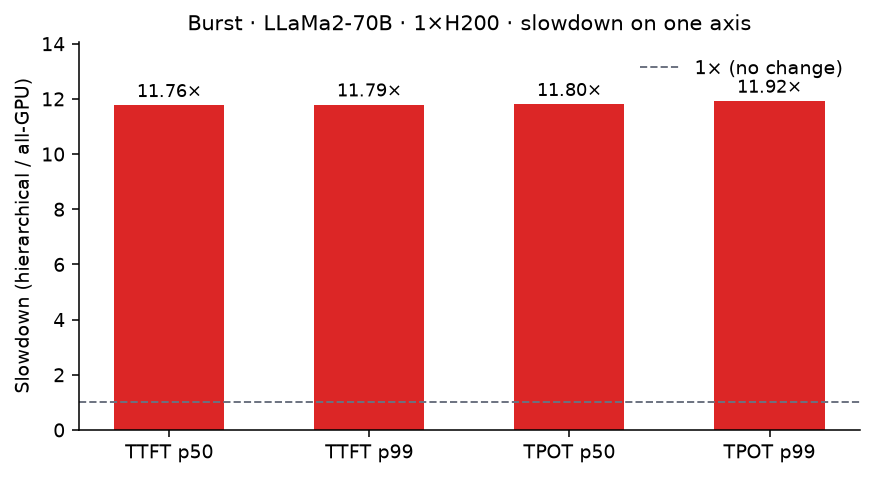
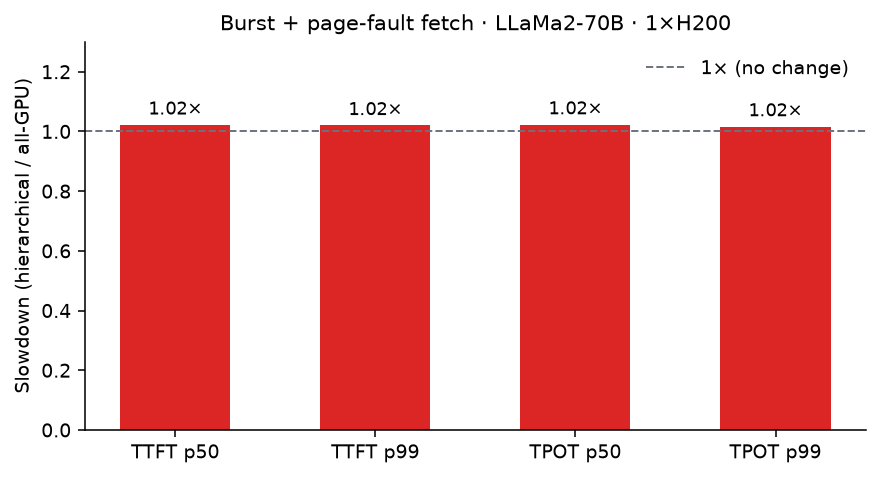
feat: enhance hierarchical KV working-set fetch with page-fault support
- Updated kv_working_set_test_report to reflect performance metrics with page-fault fetch.
- Modified fetch.py to implement page-fault logic, charging only for tokens not yet faulted in.
- Adjusted offload_sim.md to include page-fault fetch in latency calculations.
- Updated tests to validate new fetch behavior and ensure correct latency calculations.
- Revised JSON report files to capture updated simulation results and latencies.

缺页才能提高 decode 从 storage 读 KV 的效率：冷数据只在第一次 miss 时读入，之后只为滑出 GPU 窗口的新 token 付 I/O，而不是每个 decode 步把 DRAM/SSD 整段再 DMA 一遍。

已经改完并重跑 burst。请求上用 kv_ws_fetched_end 水位；存储区是 [0, gpu_start)。

diff --git a/tests/test_kv_working_set.py b/tests/test_kv_working_set.py
@@ -43,6 +43,7 @@ class _LatencyRequest:
         self.prefill_len = prefill_len
         self.generation_idx = generation_idx
         self.is_prefill = is_prefill
+        self.kv_ws_fetched_end = 0
         self.prefill_compute_len = prefill_len
         self.needs_recompute = needs_recompute
         self.recompute_tokens = recompute_tokens
@@ -156,19 +157,24 @@ class WorkingSetPlacementTest(unittest.TestCase):
         self.assertEqual(cost.ssd_tokens, 0)
         self.assertEqual(cost.latency, 0.0)
 
-    def test_fetch_matches_hand_calculated_media_delay(self):
+    def test_second_decode_only_faults_new_storage_tokens(self):
         config = _hier_config()
-        cost = fetch_cost(100, config, SIZE_PER_TOKEN)
-        expected = media_read_latency(50 * SIZE_PER_TOKEN, config.dram)
-        expected += media_read_latency(20 * SIZE_PER_TOKEN, config.ssd)
-        self.assertAlmostEqual(cost.latency, expected)
-        self.assertAlmostEqual(
-            expected,
-            100.0 / 1e6
-            + (50 * SIZE_PER_TOKEN) / _GB / 50.0
-            + 100.0 / 1e6
-            + (20 * SIZE_PER_TOKEN) / _GB / 7.0,
-        )
+        first = fetch_cost(100, config, SIZE_PER_TOKEN, fetched_end=0)
+        self.assertEqual((first.dram_tokens, first.ssd_tokens), (50, 20))
+        self.assertEqual(first.next_fetched_end, 70)
+        second = fetch_cost(101, config, SIZE_PER_TOKEN, fetched_end=first.next_fetched_end)
+        self.assertEqual(second.ssd_tokens, 0)
+        self.assertEqual(second.dram_tokens, 1)
+        self.assertEqual(second.next_fetched_end, 71)
+        self.assertLess(second.latency, first.latency)
+
+    def test_repeat_fetch_at_same_s_is_zero(self):
+        config = _hier_config()
+        first = fetch_cost(100, config, SIZE_PER_TOKEN)
+        again = fetch_cost(100, config, SIZE_PER_TOKEN, fetched_end=first.next_fetched_end)
+        self.assertEqual(again.latency, 0.0)
+        self.assertEqual(again.dram_tokens, 0)
+        self.assertEqual(again.ssd_tokens, 0)
 
 
 class WorkingSetLatencyBackendTest(unittest.TestCase):
@@ -296,6 +302,39 @@ class WorkingSetLatencyBackendTest(unittest.TestCase):
         observed = backend.estimate_step_latency([request])
         expected_fetch = fetch_cost(100, config, SIZE_PER_TOKEN).latency
         self.assertAlmostEqual(observed, 0.05 + expected_fetch)
+
+    def test_second_backend_step_only_faults_window_slide(self):
+        request = _decode_request(prefill_len=99, generation_idx=1)
+        config = _hier_config()
+        hierarchical = RooflineLatencyBackend(
+            _RooflineStub(),
+            "model",
+            "hardware",
+            ParallelConfig(),
+            working_set_config=config,
+            size_per_token=SIZE_PER_TOKEN,
+        )
+        disabled = RooflineLatencyBackend(
+            _RooflineStub(),
+            "model",
+            "hardware",
+            ParallelConfig(),
+        )
+        hierarchical.estimate_step_latency([request])
+        dram_after_first = hierarchical.kv_ws_stats.kv_ws_dram_read_tokens
+        request.generation_idx = 2
+        baseline = disabled.estimate_step_latency(
+            [_decode_request(prefill_len=99, generation_idx=2)]
+        )
+        observed = hierarchical.estimate_step_latency([request])
+        slide = fetch_cost(101, config, SIZE_PER_TOKEN, fetched_end=70)
+        self.assertEqual(slide.dram_tokens, 1)
+        self.assertEqual(slide.ssd_tokens, 0)
+        self.assertAlmostEqual(observed, baseline + slide.latency)
+        self.assertEqual(
+            hierarchical.kv_ws_stats.kv_ws_dram_read_tokens,
+            dram_after_first + 1,
+        )
 
     def test_decode_scale_is_not_applied_to_fetch(self):
         request = _decode_request(prefill_len=99, generation_idx=1)

diff --git a/TokenSim/kv_working_set/fetch.py b/TokenSim/kv_working_set/fetch.py
@@ -17,6 +17,7 @@ class FetchCost:
     dram_bytes: int
     ssd_bytes: int
     split: ContextSplit
+    next_fetched_end: int = 0
 
 
 def media_read_latency(bytes_: int, media: MediaReadConfig | None) -> float:
@@ -25,26 +26,42 @@ def media_read_latency(bytes_: int, media: MediaReadConfig | None) -> float:
     return media.read_latency_us / 1e6 + bytes_ / _GB / max(_EPS, media.read_bw_gbps)
 
 
+def _overlap(start_a: int, end_a: int, start_b: int, end_b: int) -> int:
+    return max(0, min(end_a, end_b) - max(start_a, start_b))
+
+
 def fetch_cost(
     context_len: int,
     config: WorkingSetConfig,
     size_per_token: int,
+    fetched_end: int = 0,
 ) -> FetchCost:
+    """Charge DRAM/SSD reads only for tokens not yet faulted in.
+
+    Storage covers ``[0, gpu_start)``. Tokens in ``[0, fetched_end)`` already
+    paid I/O. Later decode steps only pay for the window sliding into storage.
+    """
     split = split_context(context_len, config)
     size_per_token = max(0, int(size_per_token))
-    dram_bytes = split.dram * size_per_token
-    ssd_bytes = split.ssd * size_per_token
+    fetched_end = max(0, int(fetched_end))
+    miss_start = min(fetched_end, split.gpu_start)
+    miss_end = split.gpu_start
+    dram_tokens = _overlap(miss_start, miss_end, split.dram_start, split.gpu_start)
+    ssd_tokens = _overlap(miss_start, miss_end, split.ssd_start, split.dram_start)
+    dram_bytes = dram_tokens * size_per_token
+    ssd_bytes = ssd_tokens * size_per_token
     latency = media_read_latency(dram_bytes, config.dram) + media_read_latency(
         ssd_bytes,
         config.ssd,
     )
     return FetchCost(
         latency=latency,
-        dram_tokens=split.dram,
-        ssd_tokens=split.ssd,
+        dram_tokens=dram_tokens,
+        ssd_tokens=ssd_tokens,
         dram_bytes=dram_bytes,
         ssd_bytes=ssd_bytes,
         split=split,
+        next_fetched_end=max(fetched_end, split.gpu_start),
     )
 
 
@@ -53,7 +70,7 @@ def decode_fetch_for_requests(
     config: WorkingSetConfig,
     size_per_token: int,
 ) -> FetchCost:
-    """Sum per-request decode fetch costs for the scheduled batch."""
+    """Sum per-request decode page-fault costs and advance each watermark."""
     total = FetchCost(
         latency=0.0,
         dram_tokens=0,
@@ -70,17 +87,21 @@ def decode_fetch_for_requests(
     dram_bytes = 0
     ssd_bytes = 0
     last_split = total.split
+    last_fetched = 0
     for req in requests:
         if getattr(req, "is_prefill", False) or getattr(req, "needs_recompute", False):
             continue
         context_len = getattr(req, "prefill_len", 0) + getattr(req, "generation_idx", 0)
-        cost = fetch_cost(context_len, config, size_per_token)
+        fetched_end = int(getattr(req, "kv_ws_fetched_end", 0) or 0)
+        cost = fetch_cost(context_len, config, size_per_token, fetched_end)
+        setattr(req, "kv_ws_fetched_end", cost.next_fetched_end)
         latency += cost.latency
         dram_tokens += cost.dram_tokens
         ssd_tokens += cost.ssd_tokens
         dram_bytes += cost.dram_bytes
         ssd_bytes += cost.ssd_bytes
         last_split = cost.split
+        last_fetched = cost.next_fetched_end
     return FetchCost(
         latency=latency,
         dram_tokens=dram_tokens,
@@ -88,4 +109,5 @@ def decode_fetch_for_requests(
         dram_bytes=dram_bytes,
         ssd_bytes=ssd_bytes,
         split=last_split,
+        next_fetched_end=last_fetched,
     )

diff --git a/TokenSim/llm/llm_request.py b/TokenSim/llm/llm_request.py
@@ -234,6 +234,7 @@ class Request:
     decode_service_time_sum: float = field(default=0.0, repr=False)
     prefill_batch_size: float = field(default=0.0, repr=False)
     decode_batch_sum: float = field(default=0.0, repr=False)
+    kv_ws_fetched_end: int = field(default=0, repr=False)
     tqdm_submit_func = None
 
     def __post_init__(self):

diff --git a/kv_working_set_test_report.md b/kv_working_set_test_report.md
@@ -4,9 +4,9 @@ Date / 日期: 2026-09-04
 Simulator / 模拟器: TokenSim (roofline backend, Python 3.11)  
 Primary arrival / 主测试到达: `--distribution burst`
 
-This report documents the 70B / H200 comparison of **all-GPU decode** vs **hierarchical KV working-set fetch** (GPU 30% / DRAM 50% / SSD 20%). Burst is the official case so `--qps` does not set inter-arrival time.
+This report documents the 70B / H200 comparison of **all-GPU decode** vs **hierarchical KV working-set fetch** (GPU 30% / DRAM 50% / SSD 20%). Burst is the official case so `--qps` does not set inter-arrival time. Fetch is **page-fault**: the first decode faults the cold tail once; later steps only pay for tokens that newly slide off GPU.
 
-本报告记录 LLaMa2-70B + 1×H200 上 **全 GPU decode** 与 **分层 KV 工作集读取**（GPU 30% / DRAM 50% / SSD 20%）的对照。正式用例使用 **burst**：所有请求在仿真时刻 0 同时到达，`--qps` 不再控制间隔。
+本报告记录 LLaMa2-70B + 1×H200 上 **全 GPU decode** 与 **分层 KV 工作集读取**（GPU 30% / DRAM 50% / SSD 20%）的对照。正式用例使用 **burst**。Fetch 为 **缺页**：第一次 decode 把冷尾读入一次，之后只为新滑出 GPU 的 token 付 I/O。
 
 ---
 
@@ -31,9 +31,9 @@ Working-set media (`data/kv_working_set/hier_30_50_20.json`):
 | DRAM | 0.5 | **2 µs** (PCIe DMA) | **50 GB/s** | Yes |
 | SSD | 0.2 (oldest) | **100 µs** (NVMe) | **7 GB/s** | Yes |
 
-v1 decode step: `T_step = T_roofline + T(dram) + T(ssd)`. Prefill / recompute do **not** add fetch. GPU occupancy is **not** reduced by `gpu_frac`.
+v1 decode step: `T_step = T_roofline + T(dram_miss) + T(ssd_miss)` (page-fault, not a full cold-set read every token). Prefill / recompute do **not** add fetch. GPU occupancy is **not** reduced by `gpu_frac`.
 
-v1 decode：`T_step = T_roofline + T(dram) + T(ssd)`。Prefill / 重算不加 fetch。`gpu_frac` **不减少** GPU KV 占用。
+v1 decode：缺页读取，不是每步把冷 KV 全量再读。Prefill / 重算不加 fetch。`gpu_frac` **不减少** GPU KV 占用。
 
 ---
 
@@ -96,9 +96,9 @@ python3.11 ./benchmark.py --batching paged-attn --qps 10 \
 
 ### Case 2 (official) — burst, hierarchical 30/50/20 / 正式用例：burst 分层
 
-Same arrival and cluster. Adds blocking DRAM/SSD fetch on every decode step.
+Same arrival and cluster. Page-fault DRAM/SSD reads on decode (cold tail once, then window slide).
 
-到达与集群相同。每个 decode 步叠加 DRAM/SSD 阻塞读取。
+到达与集群相同。Decode 缺页读 DRAM/SSD（冷尾一次，之后只跟窗口滑动）。
 
 ```bash
 python3.11 ./benchmark.py --batching paged-attn --qps 10 \
@@ -148,73 +148,80 @@ Both official arms processed **102,452** tokens (51,226 prefill + 51,226 decode)
 
 ---
 
-## 5. Official results (burst) / 正式结果（burst）
+## 5. Official results (burst, page-fault fetch) / 正式结果（burst + 缺页）
 
 | Metric | Case 1 all GPU | Case 2 hierarchical | Ratio (hier / GPU) |
 | --- | --- | --- | --- |
-| TTFT p50 | 141.88 s | 1669.15 s | **11.8×** |
-| TTFT p99 | 316.77 s | 3733.99 s | **11.8×** |
+| TTFT p50 | 141.88 s | 145.01 s | **1.02×** |
+| TTFT p99 | 316.77 s | 323.17 s | **1.02×** |
 | TTFT min | **0.871 s** | **0.871 s** | **1.0×** |
-| TTFT avg | 146.92 s | 1728.13 s | 11.8× |
-| TPOT p50 | **69.0 ms** | **814.9 ms** | **11.8×** |
-| TPOT p99 | 131.3 ms | 1565.6 ms | 11.9× |
-| TPOT avg | 82.0 ms | 965.4 ms | 11.8× |
-| Per-request 1/TPOT p50 | 14.5 tok/s | 1.23 tok/s | 1/11.8 |
-| System token/s | **292.0** | **25.2** | **1/11.6** |
-| Stdout prefill token/s | 146.0 | 12.6 | 1/11.6 |
-| Achieved r/s | 0.285 | 0.025 | 1/11.6 |
-| Simulated duration | 350.91 s | 4068.56 s | 11.6× |
-| Preemptions / recomputes | 73 / 73 | 73 / 73 | same order |
-| Σ `kv_ws_fetch_latency` | 0 | 3717.65 s | decode only |
+| TTFT avg | 146.92 s | 150.03 s | 1.02× |
+| TPOT p50 | **69.0 ms** | **70.6 ms** | **1.02×** |
+| TPOT p99 | 131.3 ms | 133.5 ms | 1.02× |
+| TPOT avg | 82.0 ms | 83.6 ms | 1.02× |
+| Per-request 1/TPOT p50 | 14.48 tok/s | 14.16 tok/s | 1/1.02 |
+| System token/s | **292.0** | **286.5** | **1/1.02** |
+| Stdout prefill token/s | 146.0 | 143.3 | 1/1.02 |
+| Achieved r/s | 0.285 | 0.280 | 1/1.02 |
+| Simulated duration | 350.91 s | 357.59 s | 1.02× |
+| Preemptions / recomputes | 73 / 73 | 73 / 73 | same |
+| Σ `kv_ws_fetch_latency` | 0 | **6.68 s** | first-touch + slide |
 
-Min TTFT is identical: the first packed prefill is the same compute. p50/p99 TTFT grow because the single hybrid worker is busy; hierarchical decode steps include `T_fetch`, so the queue drains ~12× slower. **TPOT is the direct working-set cost.** System token/s falls by the duration ratio because token counts match.
+With page-fault fetch, hierarchical decode is within **~2%** of all-GPU on TTFT, TPOT, and token/s. The remaining gap is the one-time cold-tail fault plus ~1 token/step as the window slides (Σ fetch 6.68 s vs 3718 s when every step re-read the whole cold set).
 
-TTFT min 相同：第一批 packed prefill 计算一样。p50/p99 变大是因为唯一 hybrid worker 被占住；分层 decode 含 `T_fetch`，队列慢约 12 倍。**TPOT 才是工作集的直接代价。** 两边 token 数相同，系统 token/s 随仿真时长同比下降。
+缺页之后，分层与全 GPU 的 TTFT / TPOT / token/s 相差约 **2%**。剩余差距来自第一次把冷尾读入，以及窗口每次滑出约 1 个 token（Σ fetch 6.68 s；以前每步全量读是 3718 s）。
+
+Previous full-read-every-step (for comparison) / 此前每步全量读（对照）:
+
+| Metric | All GPU | Hierarchical (full read) |
+| --- | --- | --- |
+| TPOT p50 | 69.0 ms | 814.9 ms (11.8×) |
+| System token/s | 292 | 25.2 (1/11.6) |
+| Σ fetch | 0 | 3718 s |
 
 ### Comparison figures / 数据对比图
 
-Figures are stored next to this report so they remain in the repo (not only in chat). Data: `kv_working_set_test_report/all_gpu_burst.json`, `hier_burst.json`.
+PNG + JSON live under `kv_working_set_test_report/` (page-fault burst rerun).
 
-对比图与 JSON 保存在报告同目录，不依赖会话里的临时图。
+图和 JSON 在 `kv_working_set_test_report/`（缺页后的 burst 重跑）。
 
 **Figure 1 — slowdown on one axis / 同一纵轴上的变慢倍数**
 
-TTFT (seconds) and TPOT (milliseconds) cannot share a raw y-axis. The ratio *hierarchical / all-GPU* puts both on one plot. All four bars sit near **11.8×**.
+Ratios sit near **1.02×** (was ~11.8× with full-read-every-step).
 
-TTFT（秒）和 TPOT（毫秒）不能画在同一根原始纵轴上。用 *分层 / 全 GPU* 倍数可以把两个指标画在一张图里。四根柱都在 **11.8×** 附近。
+倍数约 **1.02×**（每步全量读时约 11.8×）。
 
 ![Slowdown TTFT p50/p99 and TPOT p50/p99](kv_working_set_test_report/fig_slowdown.png)
 
 **Figure 2 — absolute TTFT and TPOT / 绝对 TTFT 与 TPOT**
 
-Left: TTFT in seconds (queue wait dominates p50/p99). Right: TPOT in milliseconds (direct fetch addend).
+Left: TTFT in seconds (queue wait still dominates p50; the two arms nearly overlap). Right: TPOT in milliseconds (~69 vs ~71 ms).
 
-左：TTFT（秒），p50/p99 主要是排队。右：TPOT（毫秒），工作集读取的直接加项。
+左：TTFT（秒），p50 仍是排队，两臂几乎重合。右：TPOT（毫秒），约 69 vs 71 ms。
 
 ![TTFT seconds and TPOT milliseconds grouped bars](kv_working_set_test_report/fig_ttft_tpot.png)
 
 **Figure 3 — token/s / 吞吐**
 
-Same 102,452 tokens; duration 351 s vs 4069 s. Use **System (prefill+decode)** as cluster throughput. Stdout omits decode tokens. Per-request `1/TPOT p50` is one-stream generation speed (14.5 vs 1.23 tok/s).
+Same 102,452 tokens; duration 351 s vs 358 s. System token/s **292 vs 286.5**.
 
-两边都是 102,452 token；时长 351 s vs 4069 s。集群吞吐看 **System**。终端 stdout 不含 decode token。`1/TPOT p50` 是单请求生成速度（14.5 vs 1.23 tok/s）。
+两边仍是 102,452 token；时长 351 s vs 358 s。系统 token/s **292 vs 286.5**。
 
 ![System, stdout, and per-request token/s](kv_working_set_test_report/fig_tokens.png)
 
-### Optional Case 3 (uniform QPS=10) — sanity check / 可选用例核对
+### Optional Case 3 — historical uniform QPS=10 with full-read fetch / 历史：均匀 QPS=10 + 每步全量读
 
-| Metric | All GPU | Hierarchical |
+Recorded before page-fault. Not comparable to §5.
+
+缺页改动前的数据，不能与 §5 直接比。
+
+| Metric | All GPU | Hierarchical (full read) |
 | --- | --- | --- |
 | Offered QPS | 10 | 10 |
 | Achieved r/s | 0.285 | 0.025 |
 | TTFT p50 | 137.68 s | 1670.89 s |
 | TPOT p50 | 69.0 ms | 816.3 ms |
 | System token/s | 291.9 | 25.2 |
-| Preemptions | 67 | 69 |
-
-Burst vs uniform QPS=10: TPOT and system token/s differ by <1%. Arrival pattern is not the reason hierarchical is slower. `--qps 10` only packs arrivals into the first ~10 s; service takes hundreds to thousands of seconds.
-
-burst 与 uniform QPS=10：TPOT 与系统 token/s 相差不到 1%。分层变慢不是到达模式造成的。`--qps 10` 只是把到达挤在前约 10 秒；服务要几百到几千秒。
 
 ---
 
@@ -224,26 +231,21 @@ Use JSON **`output_token_ps`** for cluster throughput (prefill+decode). The term
 
 集群吞吐看 JSON 的 **`output_token_ps`**。终端 `Thoughput ... token/s` **不含 decode token**（本负载大约少一半）。
 
-Per-request generation speed is `1000 / TPOT_ms` (14.5 vs 1.23 tok/s). That is **not** 292 tok/s: the worker interleaves other requests’ prefills and recomputes.
+Per-request generation speed is `1000 / TPOT_ms` (14.48 vs 14.16 tok/s after page-fault). That is **not** 292 tok/s: the worker interleaves other requests’ prefills and recomputes.
 
-单请求生成速度是 `1000 / TPOT_ms`（14.5 vs 1.23 tok/s）。这不是 292 tok/s：worker 会穿插别人的 prefill 和重算。
+单请求生成速度是 `1000 / TPOT_ms`（缺页后 14.48 vs 14.16 tok/s）。这不是 292 tok/s：worker 会穿插别人的 prefill 和重算。
 
 ---
 
-## 7. Why hierarchical does not beat all-GPU / 为何分层没有快过全 GPU
+## 7. What page-fault changed / 缺页改了什么
 
-v1 **adds I/O without shrinking GPU KV**. Both arms hit the same ~20 GiB KV ceiling and preempt. Hierarchical extra cost is re-reading all DRAM+SSD tokens **every decode step**:
+Full-read-every-step charged `T(dram)+T(ssd)` for the whole cold set on **every** decode token (~12× slower). Page-fault keeps a per-request watermark `kv_ws_fetched_end`: storage is `[0, gpu_start)`; only `[fetched_end, gpu_start)` is I/O.
 
-v1 **只加 I/O、不减 GPU KV**。两臂都撞上约 20 GiB KV 上限并抢占。分层额外代价是 **每个 decode 步把 DRAM+SSD 上的 token 整段再读一遍**：
+每步全量读会对每个 decode token 收取整段冷 KV，大约慢 12 倍。缺页在请求上保留水位 `kv_ws_fetched_end`：存储区是 `[0, gpu_start)`，只对尚未读过的 `[fetched_end, gpu_start)` 计时。
 
-```text
-T_fetch = lat_dram + bytes_dram / 50 GB/s + lat_ssd + bytes_ssd / 7 GB/s
-bytes_*  = floor(S × frac) × 2.50 MiB
-```
+After this change, hierarchical **nearly matches** all-GPU speed (~2%). It still does **not** save HBM: both arms preempt 73 times. Offload’s remaining benefit vs all-GPU would be serving a longer context / higher concurrency than 20 GiB KV allows — that needs `gpu_frac` to cap GPU blocks (not in this run).
 
-A benefit vs all-GPU needs a workload all-GPU **cannot** hold without thrashing, and a model that actually keeps only `gpu_frac` of KV on HBM (not implemented in v1). Burst is the right stress arrival; it does not by itself create an offload win.
-
-要体现 offload 好处，需要全 GPU 会因显存不够而重算的负载，并且模拟器真正只在 HBM 上保留 `gpu_frac` 的 KV（v1 未做）。Burst 适合压测到达，本身不会让 offload 赢。
+改完后分层与全 GPU **几乎追平**（约 2%）。显存占用仍未减少，两臂都抢占 73 次。若要在「全 GPU 放不下」时体现 offload 好处，还需要用 `gpu_frac` 限制 GPU 块数（本次未做）。
 
 ---
 

diff --git a/offload_sim.md b/offload_sim.md
@@ -128,12 +128,19 @@ GPU 比例走现有 roofline，v1 不再单独加 HBM 读取。配置里的 `hbm
 
 ### 3.4 Step latency / 单步时延
 
-v1 uses **blocking** overlap / v1 采用阻塞叠加:
+v1 uses **blocking** overlap and **page-fault fetch** / v1 阻塞叠加 + **缺页读取**:
 
 ```text
-T_fetch = T(dram) + T(ssd)          # 0 if that tier has 0 tokens
+T_fetch = T(dram_miss) + T(ssd_miss)   # only tokens not yet faulted in
 T_step  = T_roofline_decode + T_fetch
 ```
+
+Storage covers ``[0, S_gpu_start)``. The first decode step faults that range
+once; later steps only pay for tokens that newly slide off GPU. Prefill KV is
+not pre-marked resident, so the first decode still page-ins the cold tail.
+
+存储区是 ``[0, S_gpu_start)``。第一次 decode 把这段缺页读入并记下水位；之后只为
+新滑出 GPU 的 token 付 I/O。Prefill 不算已命中，所以第一次 decode 仍会把冷尾读进来。
 
 `T_roofline_decode` is the existing decode-branch result of
 `RooflineLatencyBackend.estimate_step_latency` (after `DECODE_SCALE`).
